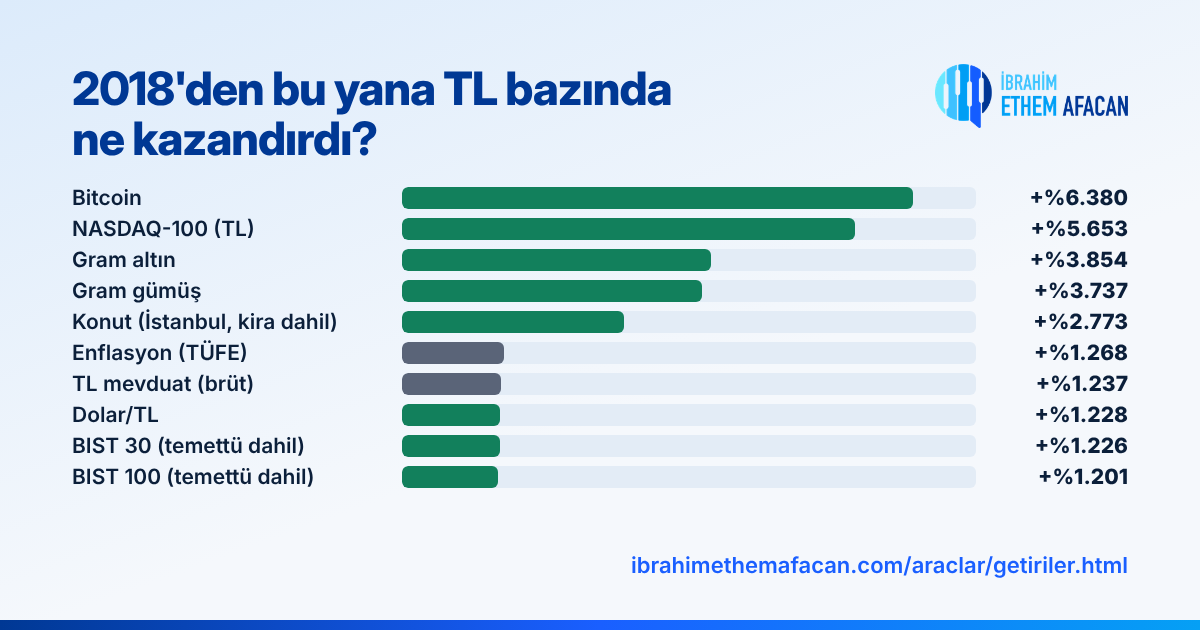
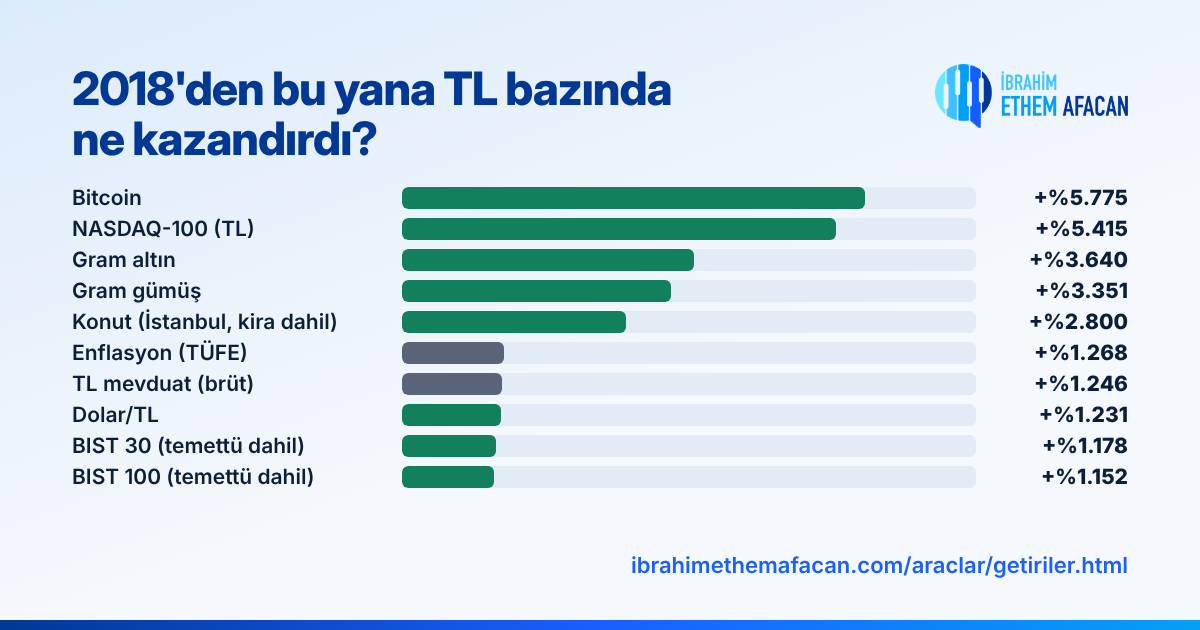
Verileri 19 Kasım 2026 kapanışına güncelle
Claude-Session: https://claude.ai/code/session_013mrGbpFadh1h9epcSoKPzq

diff --git a/araclar/getiriler.html b/araclar/getiriler.html
@@ -11,14 +11,14 @@
   <meta property="og:title" content="Yatırım Araçlarının Getirileri: 2018'den bu yana TL bazında ne kazandırdı?">
   <meta property="og:description" content="2018'den bu yana TL bazında gram altın, gram gümüş, BIST 100 ve BIST 30 (temettü dahil), NASDAQ-100, dolar/TL, bitcoin ve İstanbul'da konutun (kira dahil) mevduat ve enflasyonla karşılaştırmalı yıllık ve kümülatif getirileri.">
   <meta property="og:url" content="https://ibrahimethemafacan.com/araclar/getiriler.html">
-  <meta property="og:image" content="https://ibrahimethemafacan.com/img/og-getiriler.png?v=16">
+  <meta property="og:image" content="https://ibrahimethemafacan.com/img/og-getiriler.png?v=18">
   <meta property="og:image:width" content="1200">
   <meta property="og:image:height" content="630">
   <meta name="twitter:card" content="summary_large_image">
   <meta name="twitter:site" content="@ibrahim___ethem">
   <meta name="twitter:title" content="Yatırım Araçlarının Getirileri: 2018'den bu yana TL bazında ne kazandırdı?">
   <meta name="twitter:description" content="2018'den bu yana TL bazında gram altın, gram gümüş, BIST 100 ve BIST 30 (temettü dahil), NASDAQ-100, dolar/TL, bitcoin ve İstanbul'da konutun (kira dahil) mevduat ve enflasyonla karşılaştırmalı yıllık ve kümülatif getirileri.">
-  <meta name="twitter:image" content="https://ibrahimethemafacan.com/img/og-getiriler.png?v=16">
+  <meta name="twitter:image" content="https://ibrahimethemafacan.com/img/og-getiriler.png?v=18">
   <link rel="icon" href="/favicon.ico" sizes="any">
   <link rel="icon" type="image/png" sizes="32x32" href="/img/favicon-32.png">
   <link rel="icon" type="image/png" sizes="192x192" href="/img/favicon-192.png">
@@ -57,7 +57,7 @@
   <main class="wrap narrow">
     <article class="prose wide">
       <h1>Yatırım araçlarının getirileri</h1>
-      <p>2018 başından 13 Kasım 2026'ya kadar, Türk lirası bazında. Bir aracı seçin; her yılın getirisini ve dönem başından itibaren biriken toplam getiriyi görün.</p>
+      <p>2018 başından 19 Kasım 2026'ya kadar, Türk lirası bazında. Bir aracı seçin; her yılın getirisini ve dönem başından itibaren biriken toplam getiriyi görün.</p>
     </article>
 
     <section class="race" aria-label="Toplam getiri sıralaması">
@@ -79,7 +79,7 @@
 
     <article class="prose">
       <h2>Notlar</h2>
-      <p>2026 satırı yıl başından 13 Kasım 2026'ya kadarki dönemi kapsar. Kümülatif getiri, yıllık getirilerin bileşik olarak çarpılmasıyla bulunur; bu yüzden yıllık oranların basit toplamından farklıdır. BIST 100 ve BIST 30 getirileri temettüler dahil hesaplanmıştır. NASDAQ-100, endeks puanının dolar/TL kuruyla çarpılmasıyla TL'ye çevrilmiştir; temettüler hariçtir. Gram altın GLDGR kapanışlarından, gram gümüş ise XAGTRY (ons gümüş/TL) kapanışlarının 31,1035'e bölünerek grama çevrilmesiyle hesaplanmıştır. Bitcoin'in yıl sonu değeri, yılın son günündeki BTC/USDT kapanışının dolar/TL kuruyla çarpılmasıyla bulunmuştur. Konut getirisi, İstanbul konut fiyatlarındaki değişim (TCMB Konut Fiyat Endeksi) ile brüt kira getirisinin toplamıdır. Kira getirisi, TCMB'nin İstanbul'da değerlemesi yapılan konutlara ait birim kira ve birim fiyat verilerinden hesaplanmıştır; aidat, vergi ve boş kalma süresi gibi masraflar hariçtir. TL mevduat getirisi, TCMB'nin açıkladığı 3 aya kadar vadeli TL mevduat faizlerinin (ağırlıklı ortalama, akım) aylık ortalamalarıyla, mevduatın her üç ayda bir yenilendiği varsayılarak hesaplanmıştır; stopaj öncesi brüt getiridir. Enflasyon, TÜİK'in açıkladığı tüketici fiyat endeksinin (TÜFE) Aralıktan Aralığa değişimidir; 2026 satırı Eylül 2026'ya kadarki değişimi gösterir. Geçmiş getiriler gelecekteki getirilerin göstergesi değildir.</p>
+      <p>2026 satırı yıl başından 19 Kasım 2026'ya kadarki dönemi kapsar. Kümülatif getiri, yıllık getirilerin bileşik olarak çarpılmasıyla bulunur; bu yüzden yıllık oranların basit toplamından farklıdır. BIST 100 ve BIST 30 getirileri temettüler dahil hesaplanmıştır. NASDAQ-100, endeks puanının dolar/TL kuruyla çarpılmasıyla TL'ye çevrilmiştir; temettüler hariçtir. Gram altın GLDGR kapanışlarından, gram gümüş ise XAGTRY (ons gümüş/TL) kapanışlarının 31,1035'e bölünerek grama çevrilmesiyle hesaplanmıştır. Bitcoin'in yıl sonu değeri, yılın son günündeki BTC/USDT kapanışının dolar/TL kuruyla çarpılmasıyla bulunmuştur. Konut getirisi, İstanbul konut fiyatlarındaki değişim (TCMB Konut Fiyat Endeksi) ile brüt kira getirisinin toplamıdır. Kira getirisi, TCMB'nin İstanbul'da değerlemesi yapılan konutlara ait birim kira ve birim fiyat verilerinden hesaplanmıştır; aidat, vergi ve boş kalma süresi gibi masraflar hariçtir. TL mevduat getirisi, TCMB'nin açıkladığı 3 aya kadar vadeli TL mevduat faizlerinin (ağırlıklı ortalama, akım) aylık ortalamalarıyla, mevduatın her üç ayda bir yenilendiği varsayılarak hesaplanmıştır; stopaj öncesi brüt getiridir. Enflasyon, TÜİK'in açıkladığı tüketici fiyat endeksinin (TÜFE) Aralıktan Aralığa değişimidir; 2026 satırı Eylül 2026'ya kadarki değişimi gösterir. Geçmiş getiriler gelecekteki getirilerin göstergesi değildir.</p>
     </article>
   </main>
 
@@ -92,38 +92,38 @@
   </footer>
 
   <script>
-    // Yıllık değişim (%) ve kümülatif (%) — 2026: 13 Kasım 2026'ya kadar
+    // Yıllık değişim (%) ve kümülatif (%) — 2026: 19 Kasım 2026'ya kadar
     var DATA = [
       { id: 'altin', name: 'Gram altın', color: '#B8862B',
-        foot: '158,80 TL → 6.279,32 TL',
-        rows: [[2018,37.4,37.4],[2019,33.1,82.8],[2020,56.4,186.0],[2021,72.0,392.0],[2022,40.5,591.1],[2023,78.3,1132],[2024,52.5,1779],[2025,99.5,3648],['2026*',5.5,3854]] },
+        foot: '158,80 TL → 5.938,50 TL',
+        rows: [[2018,37.4,37.4],[2019,33.1,82.8],[2020,56.4,186.0],[2021,72.0,392.0],[2022,40.5,591.1],[2023,78.3,1132],[2024,52.5,1779],[2025,99.5,3648],['2026*',-0.2,3640]] },
       { id: 'gumus', name: 'Gram gümüş', color: '#8A9BA8',
-        foot: '2,07 TL → 79,26 TL',
-        rows: [[2018,27.4,27.4],[2019,29.8,65.5],[2020,84.6,205.5],[2021,57.4,380.8],[2022,45.0,597.0],[2023,56.7,992.2],[2024,45.7,1491],[2025,198.4,4648],['2026*',-19.2,3737]] },
+        foot: '2,07 TL → 71,28 TL',
+        rows: [[2018,27.4,27.4],[2019,29.8,65.5],[2020,84.6,205.5],[2021,57.4,380.8],[2022,45.0,597.0],[2023,56.7,992.2],[2024,45.7,1491],[2025,198.4,4648],['2026*',-27.3,3351]] },
       { id: 'bist', name: 'BIST 100 (temettü dahil)', tab: 'BIST 100', color: '#0F6B57',
         foot: 'Temettüler yeniden yatırılmış kabul edilir.',
-        rows: [[2018,-18.1,-18.1],[2019,29.7,6.2],[2020,30.9,39.0],[2021,30.0,80.8],[2022,206.5,454.0],[2023,39.3,671.8],[2024,34.9,941.1],[2025,17.0,1119],['2026*',6.7,1201]] },
+        rows: [[2018,-18.1,-18.1],[2019,29.7,6.2],[2020,30.9,39.0],[2021,30.0,80.8],[2022,206.5,454.0],[2023,39.3,671.8],[2024,34.9,941.1],[2025,17.0,1119],['2026*',2.7,1152]] },
       { id: 'bist30', name: 'BIST 30 (temettü dahil)', tab: 'BIST 30', color: '#0B5A48',
         foot: 'Temettüler yeniden yatırılmış kabul edilir.',
-        rows: [[2018,-16.7,-16.7],[2019,25.6,4.6],[2020,19.5,25.0],[2021,27.9,59.9],[2022,203.4,385.2],[2023,38.6,572.4],[2024,37.5,824.6],[2025,16.3,975.3],['2026*',23.3,1226]] },
+        rows: [[2018,-16.7,-16.7],[2019,25.6,4.6],[2020,19.5,25.0],[2021,27.9,59.9],[2022,203.4,385.2],[2023,38.6,572.4],[2024,37.5,824.6],[2025,16.3,975.3],['2026*',18.8,1178]] },
       { id: 'ndx', name: 'NASDAQ-100 (TL)', tab: 'NASDAQ-100', color: '#2E5AAC',
-        foot: '24.246 TL → 1.395.846 TL. Endeks puanı, dolar/TL kuruyla TL\'ye çevrilmiştir; temettüler hariçtir.',
-        rows: [[2018,38.2,38.2],[2019,55.1,114.3],[2020,84.5,295.2],[2021,126.1,793.7],[2022,-5.5,744.2],[2023,143.2,1953],[2024,49.3,2966],[2025,45.8,4370],['2026*',28.7,5653]] },
+        foot: '24.246 TL → 1.338.100 TL. Endeks puanı, dolar/TL kuruyla TL\'ye çevrilmiştir; temettüler hariçtir.',
+        rows: [[2018,38.2,38.2],[2019,55.1,114.3],[2020,84.5,295.2],[2021,126.1,793.7],[2022,-5.5,744.2],[2023,143.2,1953],[2024,49.3,2966],[2025,45.8,4370],['2026*',23.4,5415]] },
       { id: 'usd', name: 'Dolar/TL', color: '#3B5B8C',
-        foot: '3,79 TL → 50,36 TL',
-        rows: [[2018,39.7,39.7],[2019,12.4,57.0],[2020,25.0,96.2],[2021,80.3,253.6],[2022,39.6,393.6],[2023,57.5,677.6],[2024,20.0,833.4],[2025,21.4,1033],['2026*',17.2,1228]] },
+        foot: '3,79 TL → 50,46 TL',
+        rows: [[2018,39.7,39.7],[2019,12.4,57.0],[2020,25.0,96.2],[2021,80.3,253.6],[2022,39.6,393.6],[2023,57.5,677.6],[2024,20.0,833.4],[2025,21.4,1033],['2026*',17.5,1231]] },
       { id: 'btc', name: 'Bitcoin', color: '#E8891C',
-        star: '* 13 Kasım 2026 itibarıyla. ',
-        foot: '52.961 TL → 3.457.894 TL. TL fiyatı, BTC/USDT fiyatı ile dolar/TL kurunun çarpımıdır.',
-        rows: [[2018,-63.3,-63.3],[2019,119.7,-19.4],[2020,407.3,308.9],[2021,181.3,1050],[2022,-49.1,485.3],[2023,306.2,2278],[2024,162.9,6151],[2025,13.7,7005],['2026*',-8.8,6380]] },
+        star: '* 19 Kasım 2026 itibarıyla. ',
+        foot: '52.961 TL → 3.135.125 TL. TL fiyatı, BTC/USDT fiyatı ile dolar/TL kurunun çarpımıdır.',
+        rows: [[2018,-63.3,-63.3],[2019,119.7,-19.4],[2020,407.3,308.9],[2021,181.3,1050],[2022,-49.1,485.3],[2023,306.2,2278],[2024,162.9,6151],[2025,13.7,7005],['2026*',-17.3,5775]] },
       { id: 'konut', name: 'Konut (İstanbul/kira dahil)', tab: 'Konut', color: '#6B4E9B',
         star: '* Eylül 2026 itibarıyla (TCMB\'nin açıkladığı son veri; kira dokuz aylık). ',
         foot: 'İstanbul konut fiyat değişimi (TCMB) ile brüt kira getirisinin toplamıdır. Vergi ve masraflar hariçtir.',
         rows: [[2018,6.2,6.2],[2019,9.3,16.1],[2020,33.3,54.7],[2021,73.9,169.0],[2022,174.5,638.5],[2023,72.3,1172],[2024,31.9,1579],[2025,35.5,2175],['2026*',26.3,2773]] },
       { id: 'mevduat', name: 'TL mevduat (brüt)', tab: 'Mevduat', color: '#8A94A6', bench: true,
-        star: '* 13 Kasım 2026 itibarıyla (3 aya kadar vadeli mevduat; son vade 2 Ekim\'de %43,79 faizle başladı). ',
+        star: '* 19 Kasım 2026 itibarıyla (3 aya kadar vadeli mevduat; son vade 2 Ekim\'de %43,79 faizle başladı). ',
         foot: '3 aya kadar vadeli TL mevduatın her vade sonunda yenilendiği varsayılmıştır. Stopaj öncesi brüt getiridir.',
-        rows: [[2018,19.3,19.3],[2019,20.1,43.2],[2020,11.2,59.2],[2021,19.4,90.1],[2022,20.4,128.8],[2023,40.2,220.8],[2024,73.2,455.7],[2025,64.2,812.4],['2026*',46.5,1237]] },
+        rows: [[2018,19.3,19.3],[2019,20.1,43.2],[2020,11.2,59.2],[2021,19.4,90.1],[2022,20.4,128.8],[2023,40.2,220.8],[2024,73.2,455.7],[2025,64.2,812.4],['2026*',47.5,1246]] },
       { id: 'tufe', name: 'Enflasyon (TÜFE)', tab: 'Enflasyon', color: '#8A94A6', bench: true,
         star: '* Ekim 2026 itibarıyla (TÜİK\'in açıkladığı son veri). ',
         foot: 'Bir aracın kümülatif getirisi buradaki kümülatif enflasyondan yüksekse, o araç dönem boyunca enflasyonu yenmiştir.',
@@ -180,7 +180,7 @@
           '<td class="r rt-cum">' + pct(r[2], true) + '</td></tr>';
       }).join('');
       fitLabels();
-      document.getElementById('foot').textContent = (d.star || '* 13 Kasım 2026 itibarıyla. ') + d.foot;
+      document.getElementById('foot').textContent = (d.star || '* 19 Kasım 2026 itibarıyla. ') + d.foot;
     }
 
     // Oran her zaman çubuğun içinde; kısa çubuklar oranın sığacağı kadar uzatılır

diff --git a/araclar/makro.html b/araclar/makro.html
@@ -219,14 +219,14 @@
       <div class="gh-row"><svg class="gh-art" viewBox="0 0 64 64" aria-hidden="true" fill="none" stroke-linecap="round" stroke-linejoin="round"><circle cx="26" cy="30" r="20" fill="#E6F0FE" stroke="#0E3A8C" stroke-width="2.5"/><ellipse cx="26" cy="30" rx="9" ry="20" stroke="#0E3A8C" stroke-width="1.8"/><line x1="6" y1="30" x2="46" y2="30" stroke="#0E3A8C" stroke-width="1.8"/><path d="M9 20 H43 M9 40 H43" stroke="#A9C6FF" stroke-width="1.8"/>
 <polyline points="30,54 40,44 47,48 60,30" stroke="#1A5FFF" stroke-width="3"/><polyline points="53,30 60,30 60,37" stroke="#1A5FFF" stroke-width="3"/><circle cx="14" cy="56" r="5" fill="#E8B43A" stroke="#0E3A8C" stroke-width="1.8"/></svg><h2 class="gh">Dünya piyasaları</h2></div>
       <article class="prose wide">
-        <p>Dünyanın başlıca borsaları, emtiaları ve dolar endeksi Kasım ayında (13 Kasım'a kadar) ve yılbaşından bu yana ne kadar değişti? Karşılaştırma dolar bazındadır: euro, sterlin, yen, won, yuan ve TL ile hesaplanan endeksler, aynı dönemdeki kur değişimiyle dolara çevrilmiştir. Endeksler fiyat endeksidir, temettü dahil değildir. Dolar endeksi (DXY), doların diğer büyük para birimleri karşısındaki değerini gösterir.</p>
+        <p>Dünyanın başlıca borsaları, emtiaları ve dolar endeksi Kasım ayında (19 Kasım'a kadar) ve yılbaşından bu yana ne kadar değişti? Karşılaştırma dolar bazındadır: euro, sterlin, yen, won, yuan ve TL ile hesaplanan endeksler, aynı dönemdeki kur değişimiyle dolara çevrilmiştir. Endeksler fiyat endeksidir, temettü dahil değildir. Dolar endeksi (DXY), doların diğer büyük para birimleri karşısındaki değerini gösterir.</p>
       </article>
       <figure class="chart" id="c-rk"><figcaption id="rk-cap"></figcaption>
         <div class="seg" role="group" aria-label="Dönem"><button type="button" data-p="y" aria-pressed="true">2026</button><button type="button" data-p="m" aria-pressed="false">Kasım ayı</button></div>
         <div class="lg"></div><div class="rk"></div></figure>
       <article class="prose wide"><p>Gelişen piyasalar son bir yılın zirvesinden ne kadar uzakta? Her ülke için ABD'de işlem gören ülke borsa yatırım fonunun (ETF) dolar fiyatı, son 52 haftadaki en yüksek değeriyle karşılaştırılmıştır; sıfır çizgisi zirveyi gösterir. Türkiye kırmızı, MSCI'ın gelişen piyasalar sınıfı dışında tuttuğu Arjantin kesikli çizgiyle işaretlidir.</p></article>
       <figure class="chart" id="c-zv"><figcaption id="zv-cap"></figcaption><div class="lg"></div><div class="rk zv"></div></figure>
-      <figure class="chart" id="c-us10"><figcaption>ABD 10 yıllık tahvil faizi, ay sonu (Kasım: 13 Kasım), %</figcaption><div class="lg"></div><div class="plot"></div></figure>
+      <figure class="chart" id="c-us10"><figcaption>ABD 10 yıllık tahvil faizi, ay sonu (Kasım: 19 Kasım), %</figcaption><div class="lg"></div><div class="plot"></div></figure>
       <article class="prose wide"><p>ABD 10 yıllık tahvil faizi, dünyadaki varlıkların fiyatlamasında temel alınan “risksiz” getiridir; yükseldiğinde hisse senetleri, altın ve gelişmekte olan ülke varlıkları genellikle baskı altına girer.</p></article>
       <figure class="chart" id="c-etf"><figcaption>Altın ETF'lerine net para girişi, 2026, milyar dolar</figcaption><div class="lg"></div><div class="plot"></div></figure>
       <article class="prose wide"><p>Dünya genelinde fiziki altına dayalı borsa yatırım fonlarına (ETF) giren ve çıkan para. Artı değer net girişi, eksi değer net çıkışı gösterir. Bu fonların toplam altın varlığı Eylül sonunda 4.256 ton ile rekor kırdı.</p></article>
@@ -238,7 +238,7 @@
       <p class="unit">Milyar dolar</p>
       <div class="twrap"><table class="kt" id="t-etf"><thead><tr><th>Ay</th><th>Net akım</th></tr></thead><tbody></tbody><tfoot></tfoot></table></div>
       </details>
-      <p class="calc-note">Değerler 13 Kasım 2026 itibarıyladır; ABD endeksleri, emtialar ve dolar endeksi o günün akşam fiyatlarıdır ve gün sonu kapanışından farklı olabilir. Kasım değişimi Ekim sonu kapanışına (Dow Jones için 29 Ekim), 2026 değişimi 2025 son kapanışına göredir. Dolara çevirmede EUR/USD, GBP/USD, USD/JPY, USD/KRW, USD/CNY ve USD/TRY kurlarının aynı tarihlerdeki değerleri kullanılmıştır. * Son değer, endeksin kendi para birimindeki puanıdır. Zirveden uzaklık grafiğinde iShares ülke ETF'leri (Çin için büyük ölçekli şirketleri izleyen FXI, gelişen piyasalar için EEM ve Çin hariç EMXC) kullanılmış; ABD'de ETF'i bulunmayan Mısır için FTSE Mısır endeksinin dolar değeri alınmıştır. Fiyatlar 13 Kasım 2026 ABD kapanışı, zirve son 52 haftada görülen en yüksek fiyattır.</p>
+      <p class="calc-note">Değerler 19 Kasım 2026 itibarıyladır; ABD endeksleri, emtialar ve dolar endeksi o günün akşam fiyatlarıdır ve gün sonu kapanışından farklı olabilir. Kasım değişimi Ekim sonu kapanışına (Dow Jones için 29 Ekim), 2026 değişimi 2025 son kapanışına göredir. Dolara çevirmede EUR/USD, GBP/USD, USD/JPY, USD/KRW, USD/CNY ve USD/TRY kurlarının aynı tarihlerdeki değerleri kullanılmıştır. * Son değer, endeksin kendi para birimindeki puanıdır. Zirveden uzaklık grafiğinde iShares ülke ETF'leri (Çin için büyük ölçekli şirketleri izleyen FXI, gelişen piyasalar için EEM ve Çin hariç EMXC) kullanılmış; ABD'de ETF'i bulunmayan Mısır için FTSE Mısır endeksinin dolar değeri alınmıştır. Fiyatlar 13 Kasım 2026 ABD kapanışı, zirve son 52 haftada görülen en yüksek fiyattır.</p>
     </section>
 
     <article class="prose">
@@ -362,9 +362,9 @@
     chart('c-cy',{type:'bar',sign:true,labels:D.cari.y.map(function(r){return r.y;}),fmt:function(v){return fB(v)+' milyar $';},fmtAxis:function(v){return (v<0?'−':'')+n0.format(Math.abs(v));},series:[{name:'Cari denge',color:UP,values:D.cari.y.map(function(r){return r.v;})}]});
 
     /* ---- dünya piyasaları ---- */
-    var DN_=[["S&P 500|ABD","b",-1.1,8.8,7514.7],["Dow Jones|ABD","b",-0.1,8.8,52297.09],["Nasdaq-100|ABD","b",-2.8,9.8,27715.75],["DAX|Almanya","b",2.3,2.5,26756.7],["FTSE 100|İngiltere","b",0.2,7.8,10902.56],["CAC 40|Fransa","b",3.8,-3.6,8368.91],["Nikkei 225|Japonya","b",-4.9,19.1,61142.35],["KOSPI|Güney Kore","b",-7.9,35.6,5290.53],["Şanghay|Çin","b",0.9,-4.0,3634.35],["BIST 100|Türkiye","b",9.2,-10.3,11842.82],["Altın|ons","e",-0.6,-10.1,3878.83],["Gümüş|ons","e",-0.6,-31.1,48.97],["Brent petrol|varil","e",-16.7,54.8,94.24],["Dolar endeksi|DXY","d",1.4,5.1,103.36]];
+    var DN_=[["S&P 500|ABD","b",-5.5,4.0,7179.38],["Dow Jones|ABD","b",-6.2,2.2,49097.06],["Nasdaq-100|ABD","b",-7.0,5.0,26517.05],["DAX|Almanya","b",-3.1,-2.9,25463.81],["FTSE 100|İngiltere","b",-4.7,2.5,10452.68],["CAC 40|Fransa","b",-0.2,-7.4,8080.74],["Nikkei 225|Japonya","b",-7.4,16.0,59444.21],["KOSPI|Güney Kore","b",-10.4,32.0,5137.89],["Şanghay|Çin","b",-0.6,-5.4,3577.62],["BIST 100|Türkiye","b",4.9,-13.8,11400.09],["Altın|ons","e",-6.2,-15.1,3659.98],["Gümüş|ons","e",-10.8,-38.2,43.92],["Brent petrol|varil","e",-20.0,48.7,90.51],["Dolar endeksi|DXY","d",1.9,5.7,103.89]];
     var KAT={b:['Borsa',C1],e:['Emtia',C2],d:['Döviz',C3]};
-    var US10={v:[1.088,1.426,1.739,1.625,1.584,1.472,1.23,1.308,1.487,1.562,1.443,1.514,1.793,1.834,2.339,2.931,2.853,3.017,2.651,3.195,3.827,4.05,3.687,3.88,3.506,3.914,3.476,3.424,3.642,3.839,3.959,4.106,4.579,4.931,4.362,3.881,3.978,4.25,4.205,4.694,4.51,4.387,4.075,3.913,3.786,4.275,4.175,4.576,4.585,4.219,4.23,4.156,4.401,4.242,4.367,4.233,4.153,4.098,4.018,4.172,4.238,3.952,4.318,4.375,4.44,4.47,4.74,4.76,5.29,4.96,5.14]};
+    var US10={v:[1.088,1.426,1.739,1.625,1.584,1.472,1.23,1.308,1.487,1.562,1.443,1.514,1.793,1.834,2.339,2.931,2.853,3.017,2.651,3.195,3.827,4.05,3.687,3.88,3.506,3.914,3.476,3.424,3.642,3.839,3.959,4.106,4.579,4.931,4.362,3.881,3.978,4.25,4.205,4.694,4.51,4.387,4.075,3.913,3.786,4.275,4.175,4.576,4.585,4.219,4.23,4.156,4.401,4.242,4.367,4.233,4.153,4.098,4.018,4.172,4.238,3.952,4.318,4.375,4.44,4.47,4.74,4.76,5.29,4.96,5.05]};
     var ETF=[19,5.3,-12,6.6,-2,-8.9,3,18,10];
     var us10m=US10.v.map(function(v,i){return (2021+Math.floor(i/12))+'-'+(i%12+1);});
     fill('t-dn',DN_.map(function(r){var q=r[0].split('|');return '<tr><td>'+q[0]+' <span style="color:var(--muted)">('+q[1]+')</span></td><td>'+n2.format(r[4])+'</td><td>'+pc(r[2])+'</td><td>'+pc(r[3])+'</td></tr>';}).join(''));

diff --git a/index.html b/index.html
@@ -64,14 +64,14 @@
           </div>
         </div>
         <a class="hero-race" href="/araclar/getiriler.html" aria-label="2026 getiri yarışı, getiriler sayfasına git">
-          <div class="hr-head"><span class="hr-eyebrow">2026'da ne kazandırdı?</span><span class="hr-sub">Yılbaşından 13 Kasım'a, TL bazında, %</span></div>
+          <div class="hr-head"><span class="hr-eyebrow">2026'da ne kazandırdı?</span><span class="hr-sub">Yılbaşından 19 Kasım'a, TL bazında, %</span></div>
           <ol class="hr-bars">
-            <li><span class="hr-n">TL mevduat</span><span class="hr-t"><i style="width:100.0%"></i></span><b class="hr-v">+46,5</b></li>
-            <li class="ref"><span class="hr-n">Enflasyon</span><span class="hr-t"><i style="width:59.1%"></i></span><b class="hr-v">+27,5</b></li>
-            <li><span class="hr-n">Dolar/TL</span><span class="hr-t"><i style="width:37.0%"></i></span><b class="hr-v">+17,2</b></li>
-            <li><span class="hr-n">BIST 100</span><span class="hr-t"><i style="width:14.4%"></i></span><b class="hr-v">+6,7</b></li>
-            <li><span class="hr-n">Gram altın</span><span class="hr-t"><i style="width:11.8%"></i></span><b class="hr-v">+5,5</b></li>
-            <li class="neg"><span class="hr-n">Gram gümüş</span><span class="hr-t"><i style="width:41.3%"></i></span><b class="hr-v">−19,2</b></li>
+            <li><span class="hr-n">TL mevduat</span><span class="hr-t"><i style="width:100.0%"></i></span><b class="hr-v">+47,5</b></li>
+            <li class="ref"><span class="hr-n">Enflasyon</span><span class="hr-t"><i style="width:57.9%"></i></span><b class="hr-v">+27,5</b></li>
+            <li><span class="hr-n">Dolar/TL</span><span class="hr-t"><i style="width:36.8%"></i></span><b class="hr-v">+17,5</b></li>
+            <li><span class="hr-n">BIST 100</span><span class="hr-t"><i style="width:5.7%"></i></span><b class="hr-v">+2,7</b></li>
+            <li class="neg"><span class="hr-n">Gram altın</span><span class="hr-t"><i style="width:0.4%"></i></span><b class="hr-v">−0,2</b></li>
+            <li class="neg"><span class="hr-n">Gram gümüş</span><span class="hr-t"><i style="width:57.5%"></i></span><b class="hr-v">−27,3</b></li>
           </ol>
           <div class="hr-foot"><span>Enflasyonu geçen yalnızca mevduat.</span><span class="hr-more">2018'den bu yana →</span></div>
         </a>

diff --git a/scripts/og/getiriler.html b/scripts/og/getiriler.html
@@ -10,6 +10,6 @@ h1{font-size:46px}
 <div style="display:flex;align-items:center;justify-content:space-between"><h1>2018'den bu yana TL bazında<br>ne kazandırdı?</h1><img class="logo" src="logo.png" style="align-self:flex-start"></div>
 <div class="rows" id="rows"></div></div><div class="url">ibrahimethemafacan.com/araclar/getiriler.html</div><div class="bar"></div>
 <script>
-var d=[['Bitcoin',6380],['NASDAQ-100 (TL)',5653],['Gram altın',3854],['Gram gümüş',3737],['Konut (İstanbul, kira dahil)',2773],['Enflasyon (TÜFE)',1268,1],['TL mevduat (brüt)',1237,1],['Dolar/TL',1228],['BIST 30 (temettü dahil)',1226],['BIST 100 (temettü dahil)',1201]];
+var d=[['Bitcoin',5775],['NASDAQ-100 (TL)',5415],['Gram altın',3640],['Gram gümüş',3351],['Konut (İstanbul, kira dahil)',2800],['Enflasyon (TÜFE)',1268,1],['TL mevduat (brüt)',1246,1],['Dolar/TL',1231],['BIST 30 (temettü dahil)',1178],['BIST 100 (temettü dahil)',1152]];
 document.getElementById('rows').innerHTML=d.map(function(x){return '<div class="r"><span class="n">'+x[0]+'</span><span class="t"><i style="width:'+(x[1]/7161*100)+'%;'+(x[2]?'background:#5A6478':'')+'"></i></span><span class="v">+%'+x[1].toLocaleString('tr-TR')+'</span></div>'}).join('');
 </script></body></html>
